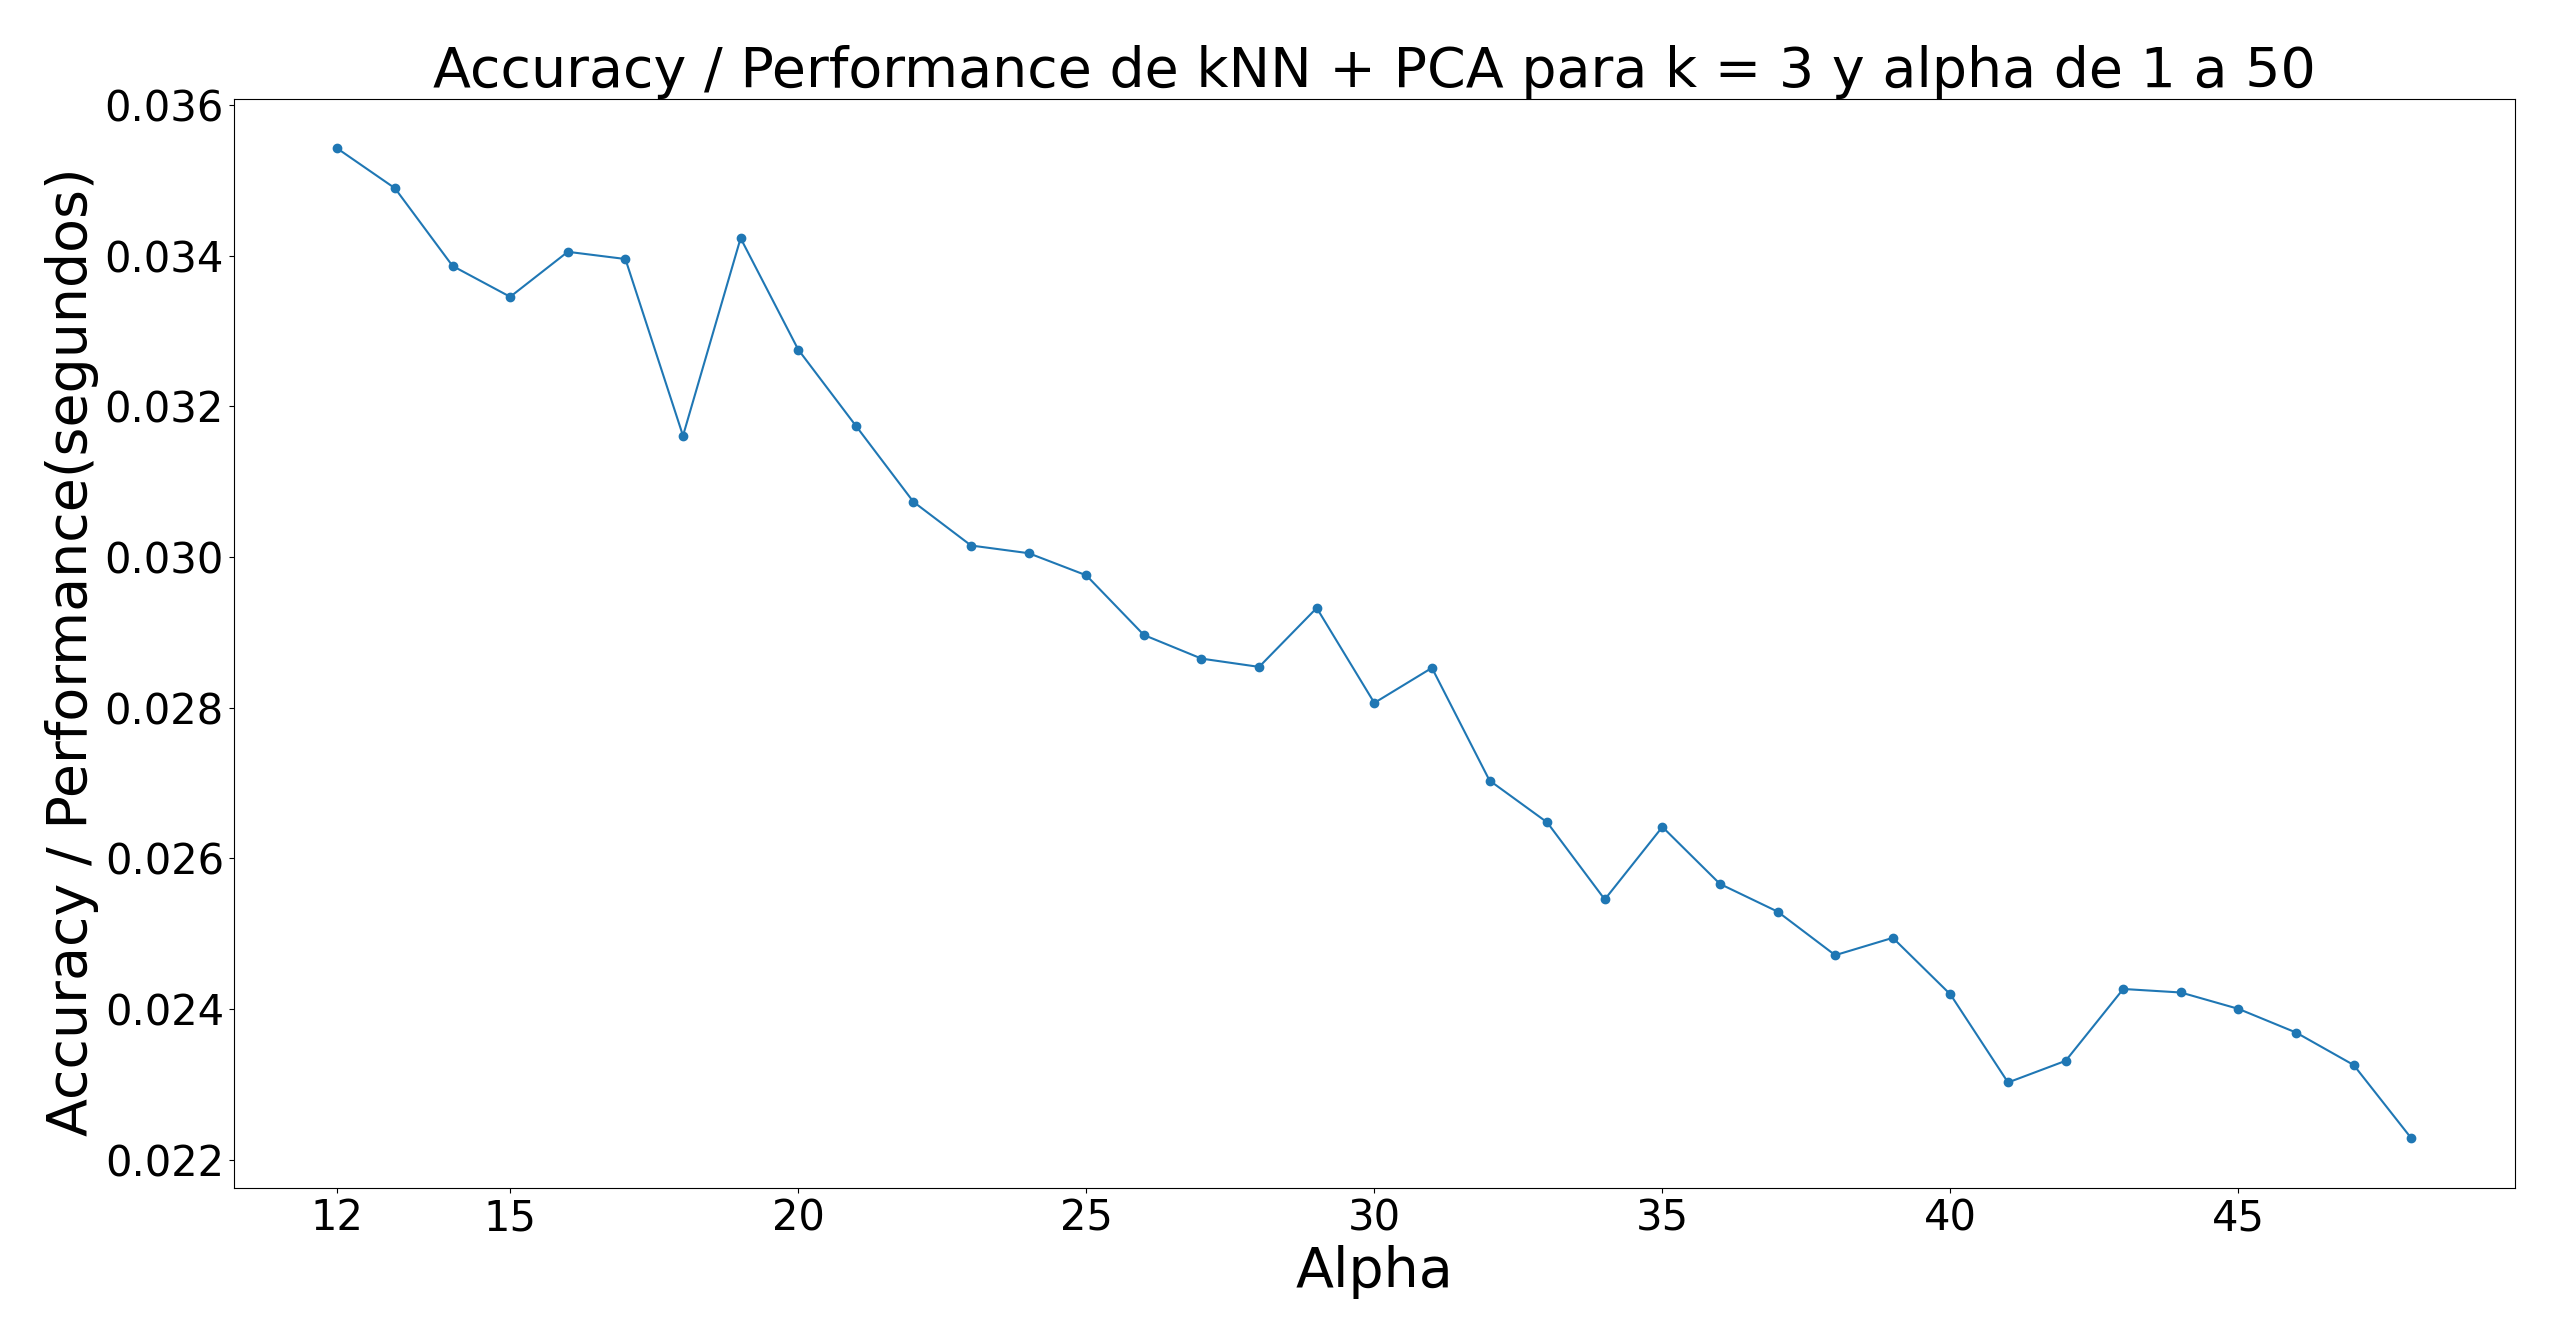
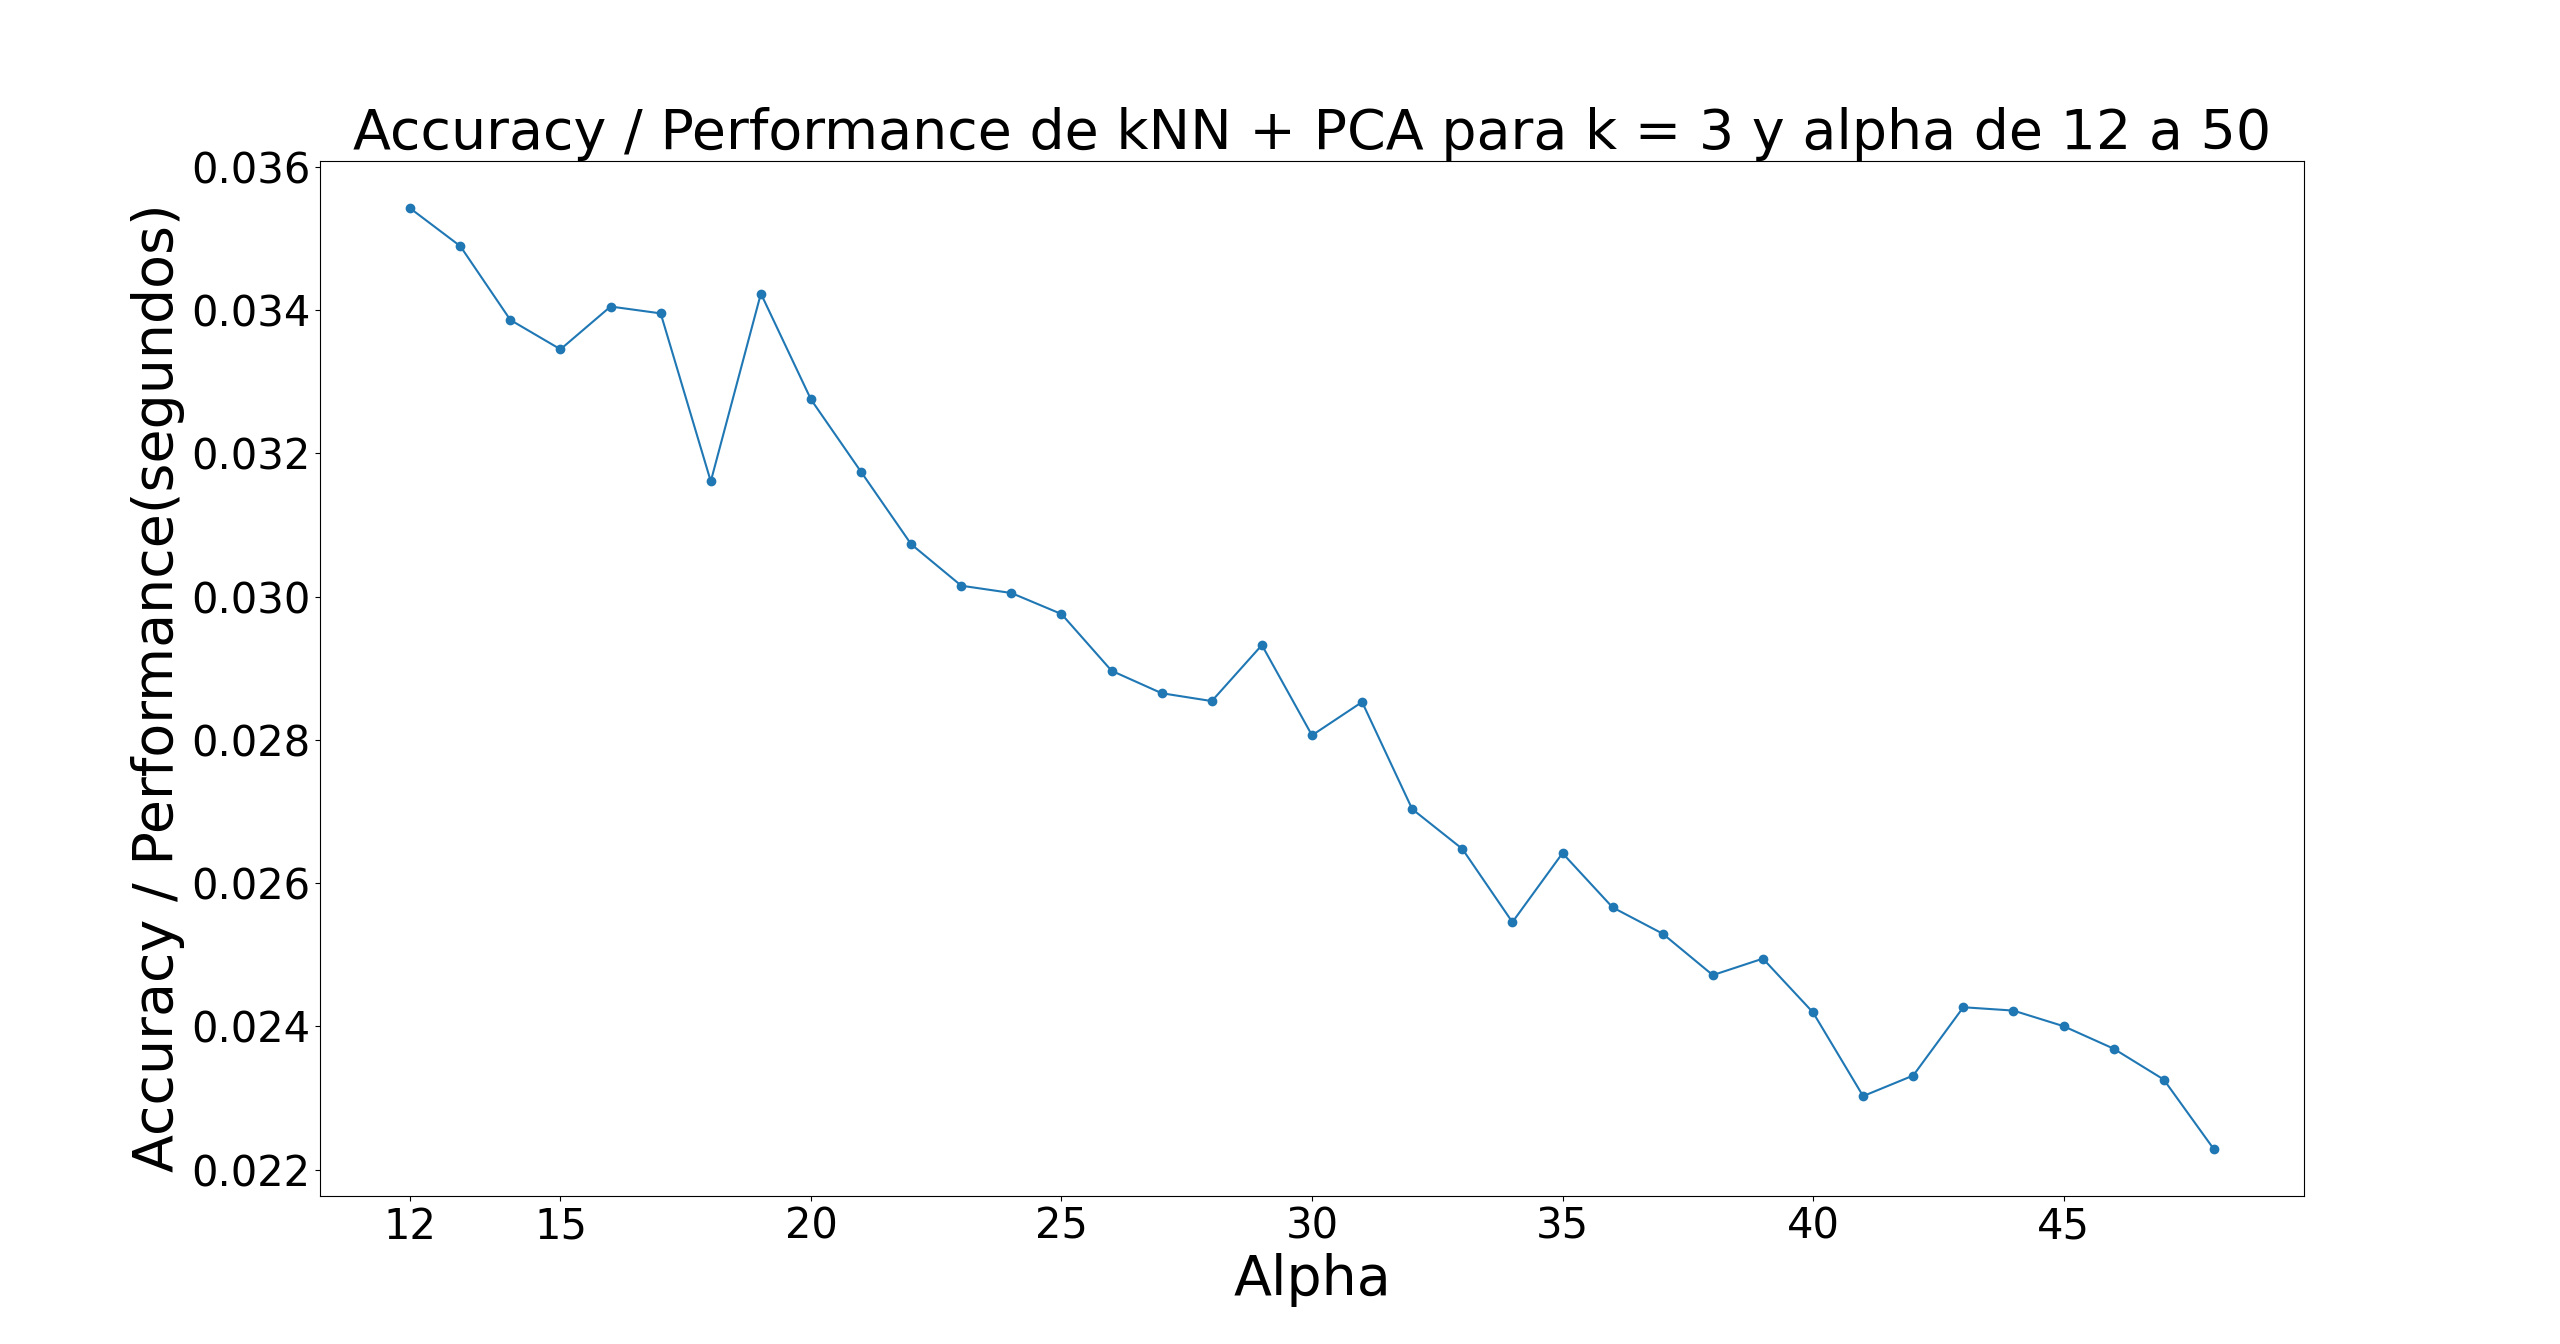
more things

diff --git a/scripts/graphics/best_alpha.py b/scripts/graphics/best_alpha.py
@@ -28,7 +28,7 @@ plt.plot(range(12,49), acc[12:] / performance[12:], '-o')
 plt.xlabel('Alpha', fontsize=40)
 plt.ylabel('Accuracy / Performance(segundos) ', fontsize=40)
 plt.xticks([12,15,20,25,30,35,40,45])
-plt.title('Accuracy / Performance de kNN + PCA para k = 3 y alpha de 1 a 50', fontsize=40)
+plt.title('Accuracy / Performance de kNN + PCA para k = 3 y alpha de 12 a 50', fontsize=40)
 plt.show()
 
 
